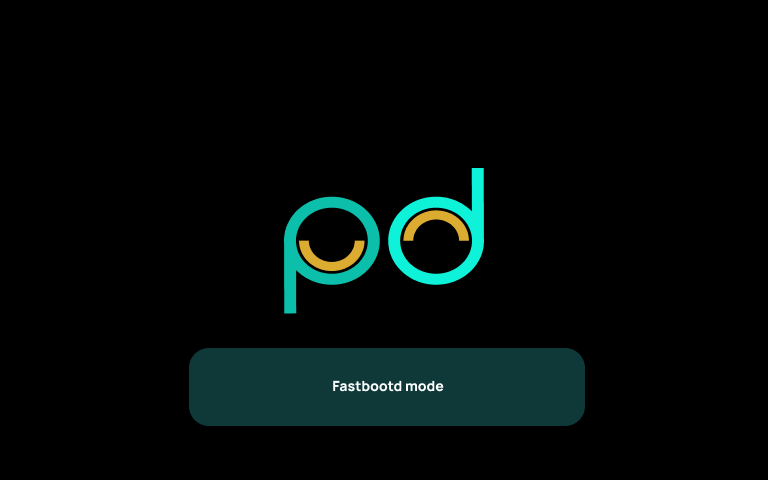
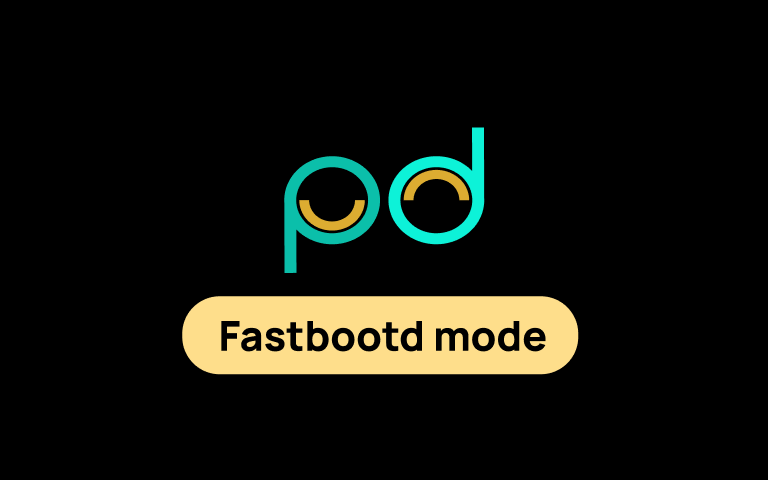
recovery: improve user interface

Changed region(s): [[0.2188, 0.25, 0.7812, 0.9062]]

diff --git a/recovery_ui/screen_ui.cpp b/recovery_ui/screen_ui.cpp
@@ -564,27 +564,27 @@ void ScreenRecoveryUI::draw_foreground_locked() {
   }
 }
 
-/* Accent:  #0F3939 */
+/* Accent:  #FEDE8B */
 void ScreenRecoveryUI::SetColor(UIElement e) const {
   switch (e) {
     case UIElement::INFO:
-      gr_color(0x0f, 0x39, 0x39, 255);
+      gr_color(0xfe, 0xde, 0x8b, 255);
       break;
     case UIElement::HEADER:
-      gr_color(0x0f, 0x39, 0x39, 255);
+      gr_color(0xfe, 0xde, 0x8b, 255);
       break;
     case UIElement::MENU:
       gr_color(0xd8, 0xd8, 0xd8, 255);
       break;
     case UIElement::MENU_SEL_BG:
     case UIElement::SCROLLBAR:
-      gr_color(0x0f, 0x39, 0x39, 255);
+      gr_color(0xfe, 0xde, 0x8b, 255);
       break;
     case UIElement::MENU_SEL_BG_ACTIVE:
       gr_color(0, 156, 100, 255);
       break;
     case UIElement::MENU_SEL_FG:
-      gr_color(0x0f, 0x39, 0x39, 255);
+      gr_color(0x02, 0x01, 0x01, 255);
       break;
     case UIElement::LOG:
       gr_color(196, 196, 196, 255);
